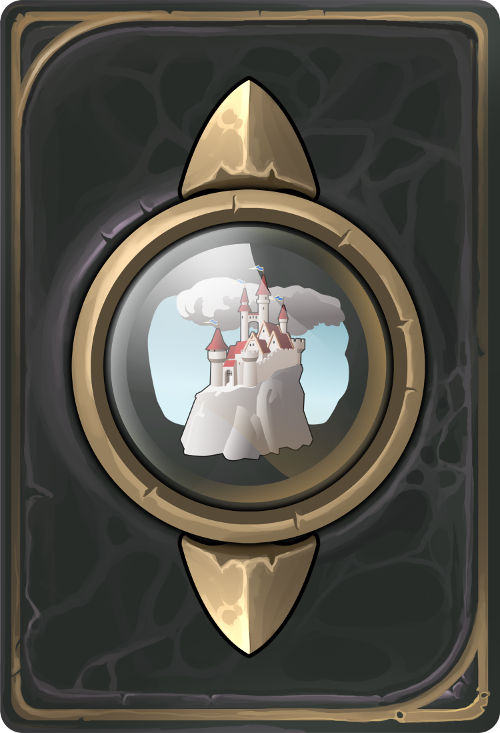
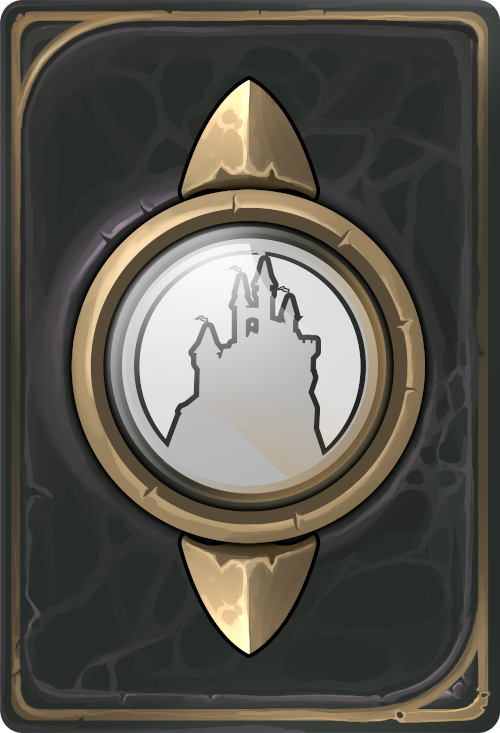
Change maskable

Changed region(s): [[0.24, 0.3001, 0.78, 0.6903]]

diff --git a/CHANGELOG.md b/CHANGELOG.md
@@ -2,18 +2,19 @@
 ## v1.12 Beta (XX/10/2020)
 ### Added
 - Import students from Google Classroom.
-- Added button to go to challenge in students challenge summary.
+- Button to go to challenge in students challenge summary.
 - Licenses added and folder organization.
+- Authory of map in maps.
 - Google Analytics.
 
 ### Changed
 - Added sounds to wheel.
 - Wheel now use weights (for now all probabilities are equal).
-- Authory of map in maps.
 - Added subcategories in edit challenge.
 - Hide comment button in challenge information.
 - Changes in remember user.
 - Updates in policy.
+- Deck image logo.
 
 ## v1.11 Beta (24/10/2020)
 ### Added
